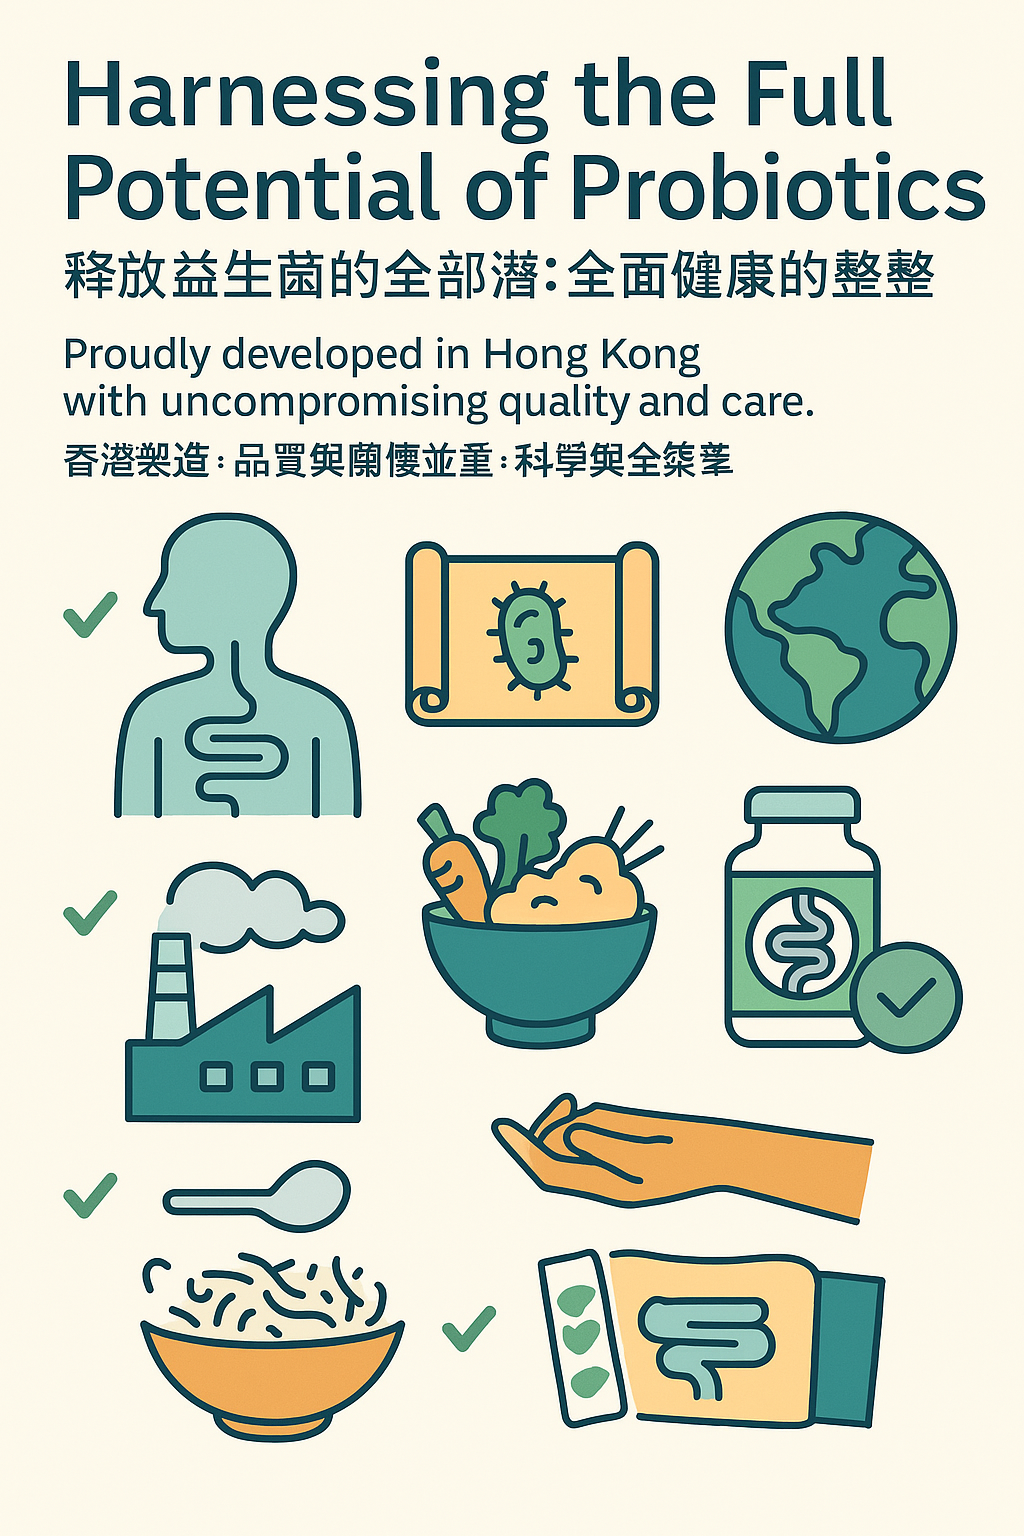
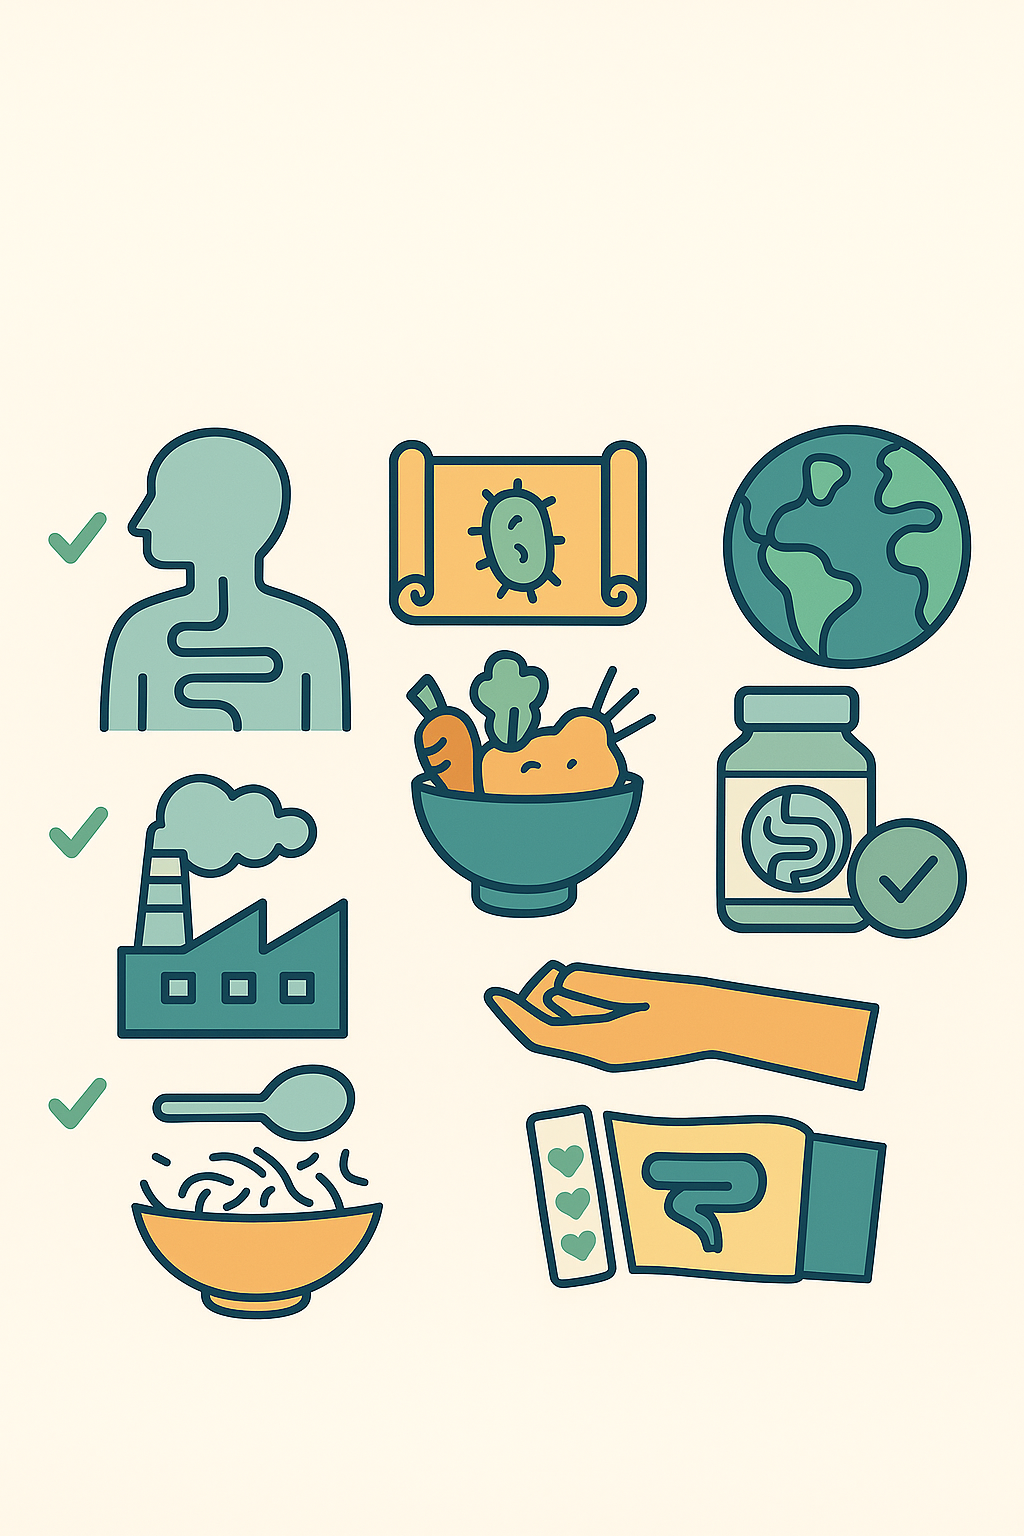
removed text on images

diff --git a/css/styles.css b/css/styles.css
@@ -11553,7 +11553,7 @@ img.rounded.shadow-sm {
 
   .bottle-container img {
     display: block;
-    max-width: 300px;
+    max-width: 100px;
     height: auto;
   }
 
